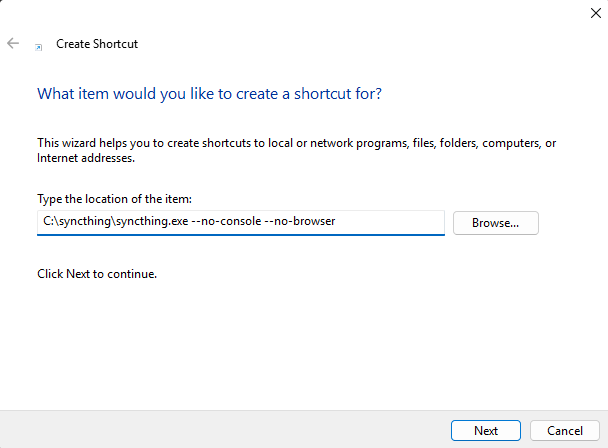
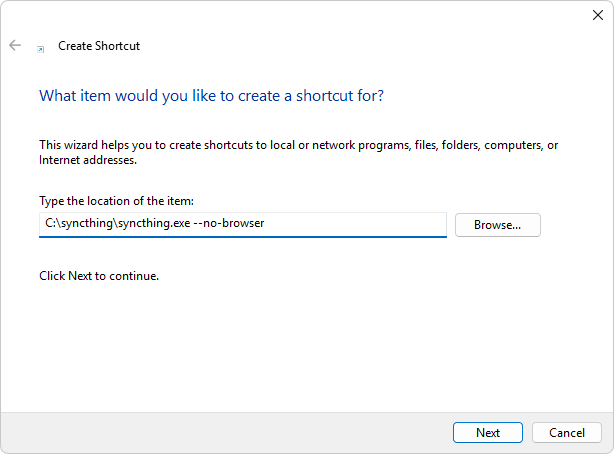
fix(autostart): remove --no-console from Windows instructions
With the advent of Windows Terminal and it being the default shell both
in newer releases of Windows 10, and in Windows 11, the `--no-console`
command line switch no longer works. For this reason, remove it from the
commands listed in the autostart instructions. When it comes to the Task
Scheduler part, it has never actually been needed anyway, and in the
Startup folder instructions, it can be worked around by using the native
`conhost.exe --headless` method.

diff --git a/users/autostart.rst b/users/autostart.rst
@@ -90,7 +90,7 @@ https://docs.microsoft.com/windows/win32/taskschd.
    #. Click "New...".
    #. Enter the path to ``syncthing.exe`` in "Program/script:" (for
       example ``C:\syncthing\syncthing.exe``).
-   #. Enter ``--no-console --no-browser`` in "Add arguments (optional):"
+   #. Enter ``--no-browser`` in "Add arguments (optional):"
    #. Click "OK".
 
    |Windows Task Scheduler Actions Screenshot|
@@ -163,8 +163,8 @@ opening on start, is relatively easy.
    |Windows Startup Folder New Shortcut Screenshot|
 
 #. Enter the path to ``syncthing.exe`` in "Type the location of the item:"
-   followed by ``--no-console --no-browser`` (for example ``C:\syncthing\syncthing.exe
-   --no-console --no-browser``).
+   into the command ``conhost.exe --headless syncthing.exe --no-browser``
+   (for example ``conhost.exe --headless C:\syncthing\syncthing.exe --no-browser``).
 
    |Windows Startup Folder Create Shortcut Screenshot|
 
@@ -175,6 +175,13 @@ Syncthing will now automatically start the next time you log on to your
 user account in Windows. No console or browser window will pop-up, but
 you can still access the interface by opening http://localhost:8384 in
 a Web browser.
+
+.. note::
+
+   It used to be possible to start Syncthing with its console window hidden by
+   using the `--no-console` option. However, this method no longer works in
+   newer versions of Windows that have Windows Terminal set as their default
+   shell. For this reason, using `--no-console` is no longer recommended here.
 
 .. _autostart-windows-tools:
 
